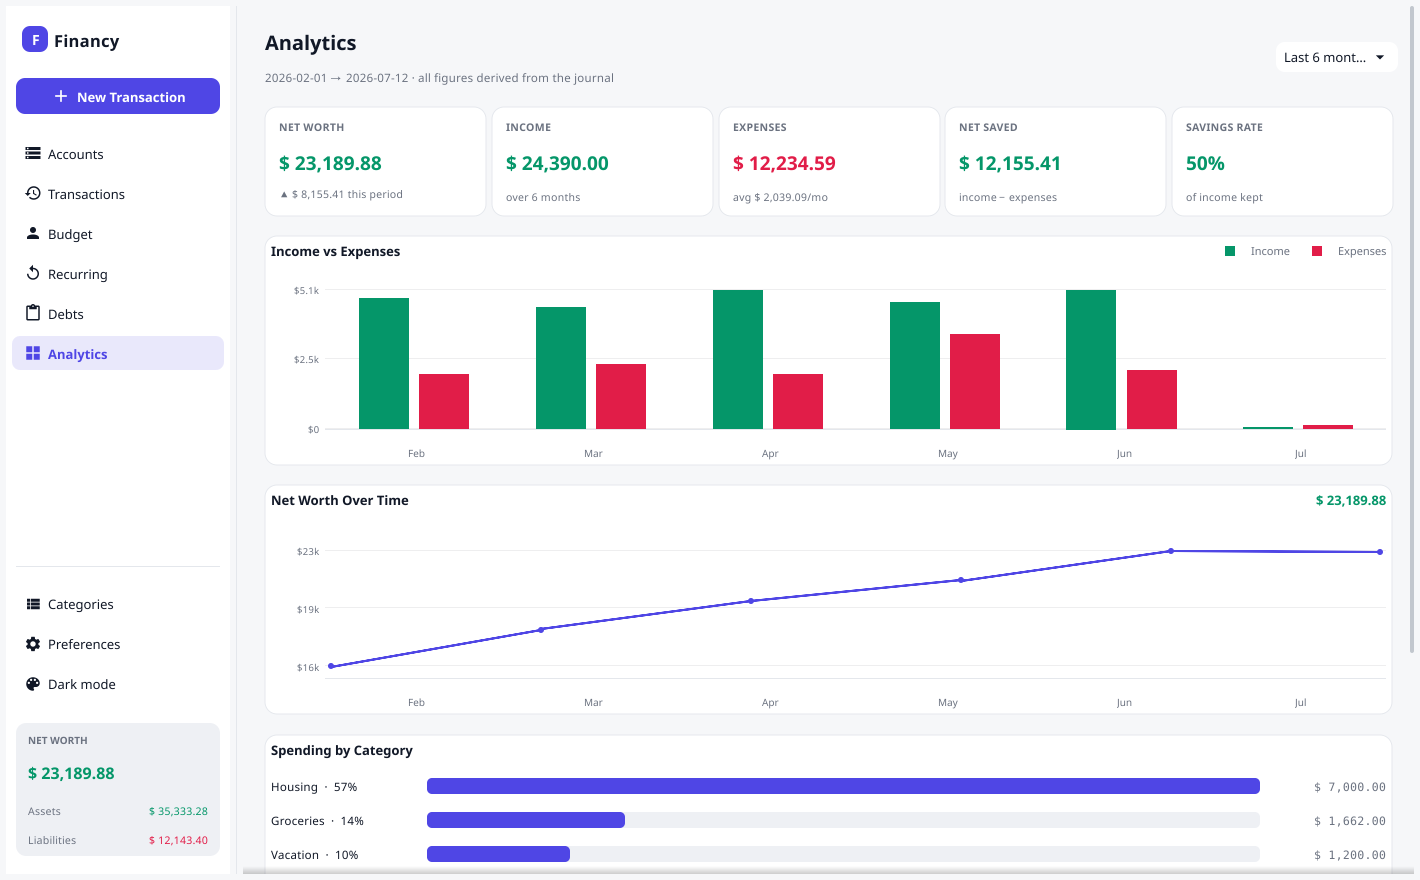
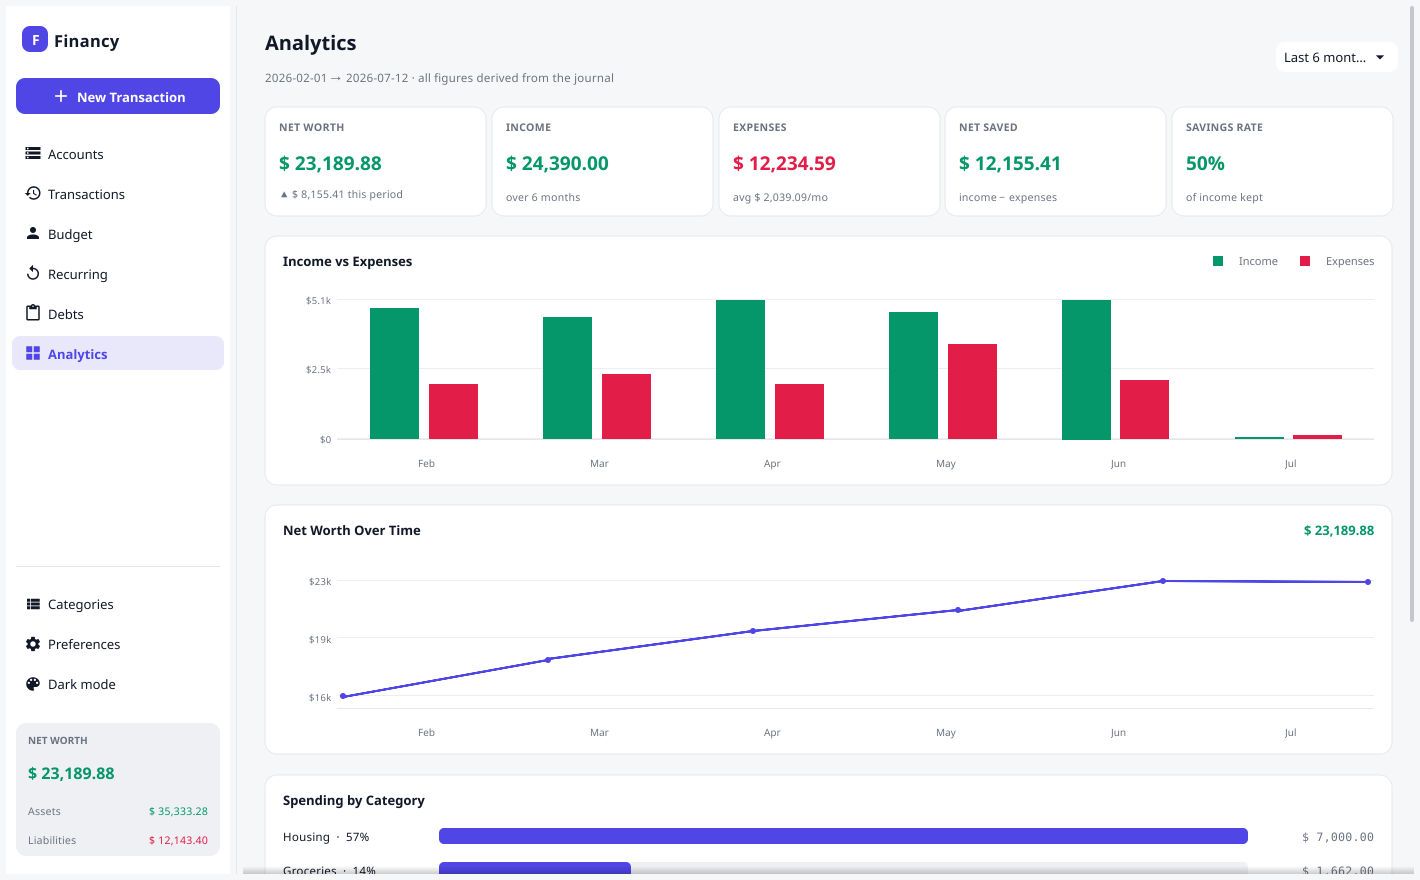
Add the missing inner padding to the analytics panels

diff --git a/internal/ui/view/analytics.go b/internal/ui/view/analytics.go
@@ -104,7 +104,7 @@ func kpiRow(s AnalyticsSummary) fyne.CanvasObject {
 
 func incomeExpensePanel(flows []MonthFlow) fyne.CanvasObject {
 	if len(flows) == 0 {
-		return panel(emptyState("No activity in this period"))
+		return panel(container.New(padCell(10, 12), emptyState("No activity in this period")))
 	}
 	incomes := make([]int, len(flows))
 	expenses := make([]int, len(flows))
@@ -121,17 +121,17 @@ func incomeExpensePanel(flows []MonthFlow) fyne.CanvasObject {
 		container.NewHBox(legendSwatch("Income", colPositive), spacerW(10), legendSwatch("Expenses", colNegative)),
 	)
 	chart := barPairChart(incomes, expenses, colPositive, colNegative, tips, fmtMoneyShort)
-	return panel(container.NewVBox(
+	return panel(container.New(padCell(10, 12), container.NewVBox(
 		header, spacerH(8), chart, spacerH(4),
 		axisLabels(labels),
-	))
+	)))
 }
 
 // ---- net worth trend ----
 
 func netWorthPanel(points []NetWorthPoint) fyne.CanvasObject {
 	if len(points) == 0 {
-		return panel(emptyState("No history in this period"))
+		return panel(container.New(padCell(10, 12), emptyState("No history in this period")))
 	}
 	vals := make([]int, len(points))
 	tips := make([]string, len(points))
@@ -145,17 +145,18 @@ func netWorthPanel(points []NetWorthPoint) fyne.CanvasObject {
 		sectionTitle("Net Worth Over Time"),
 		txt(fmtMoney(vals[len(vals)-1]), moneyColor(vals[len(vals)-1]), 13, true),
 	)
-	return panel(container.NewVBox(
+	return panel(container.New(padCell(10, 12), container.NewVBox(
 		header, spacerH(8), lineChart(vals, colPrimary, tips, fmtMoneyShort), spacerH(4),
 		axisLabels(labels),
-	))
+	)))
 }
 
 // ---- spending by category ----
 
 func spendingPanel(cats []CategorySlice) fyne.CanvasObject {
 	if len(cats) == 0 {
-		return panel(container.NewVBox(sectionTitle("Spending by Category"), spacerH(8), emptyState("No spending in this period")))
+		return panel(container.New(padCell(10, 12), container.NewVBox(
+			sectionTitle("Spending by Category"), spacerH(8), emptyState("No spending in this period"))))
 	}
 	top := cats[0].Total
 	rows := make([]fyne.CanvasObject, 0, len(cats)+2)
@@ -168,7 +169,7 @@ func spendingPanel(cats []CategorySlice) fyne.CanvasObject {
 		label := fmt.Sprintf("%s  ·  %.0f%%", c.Account.Name, c.Pct)
 		rows = append(rows, hbar(label, fmtMoney(c.Total), ratio, colPrimary), spacerH(6))
 	}
-	return panel(container.NewVBox(rows...))
+	return panel(container.New(padCell(10, 12), container.NewVBox(rows...)))
 }
 
 // axisLabels lays the X-axis labels out under the plot, inset by the chart's